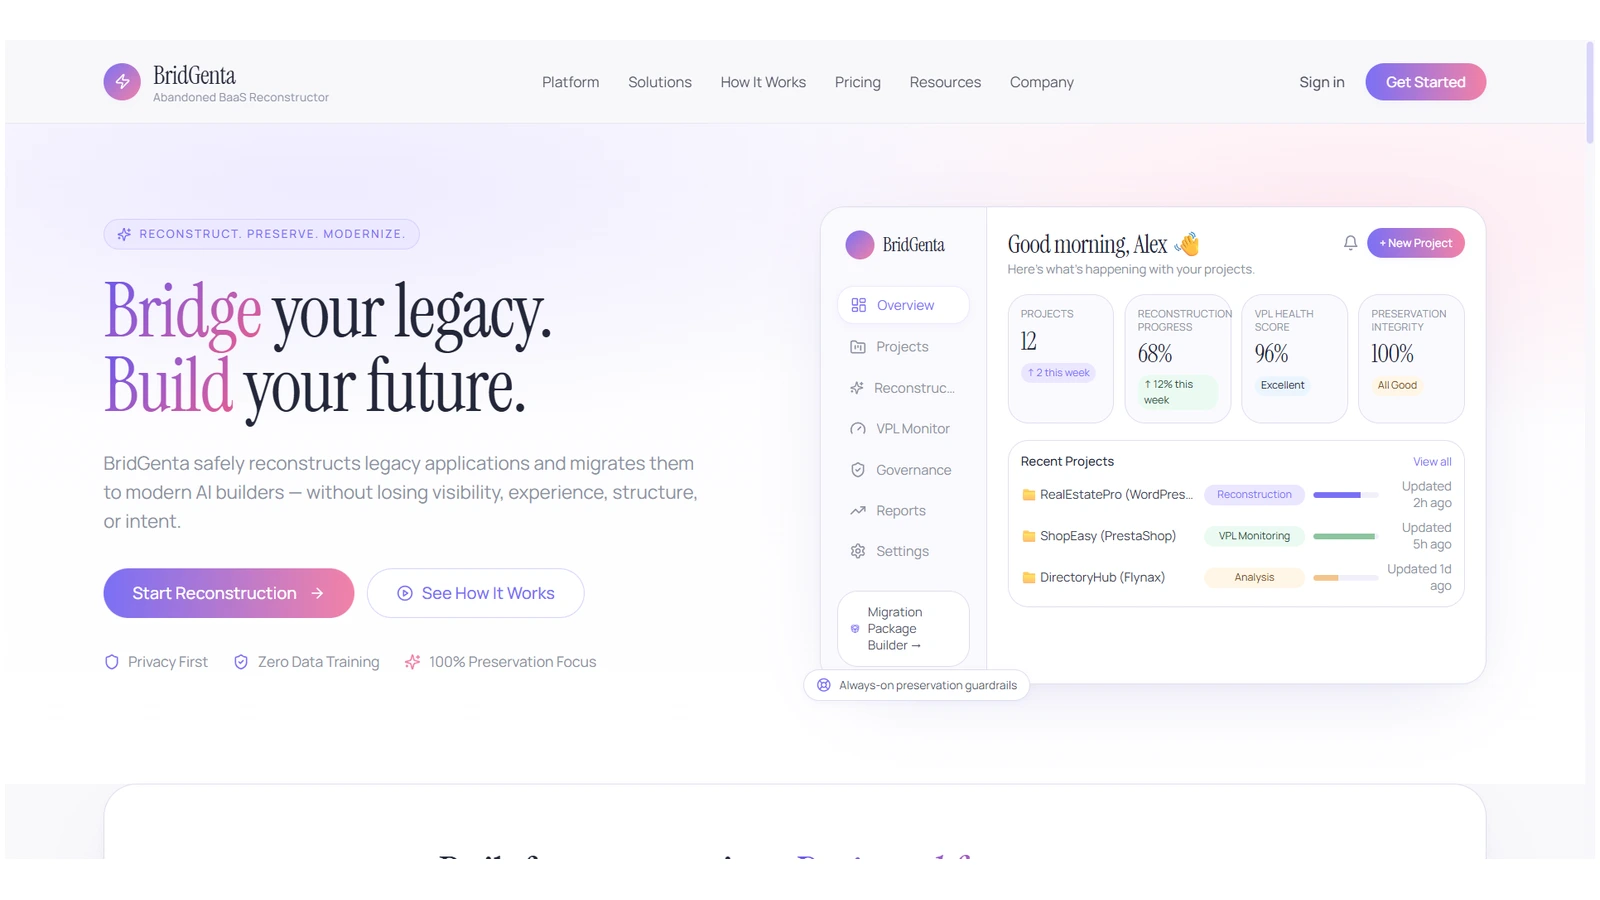
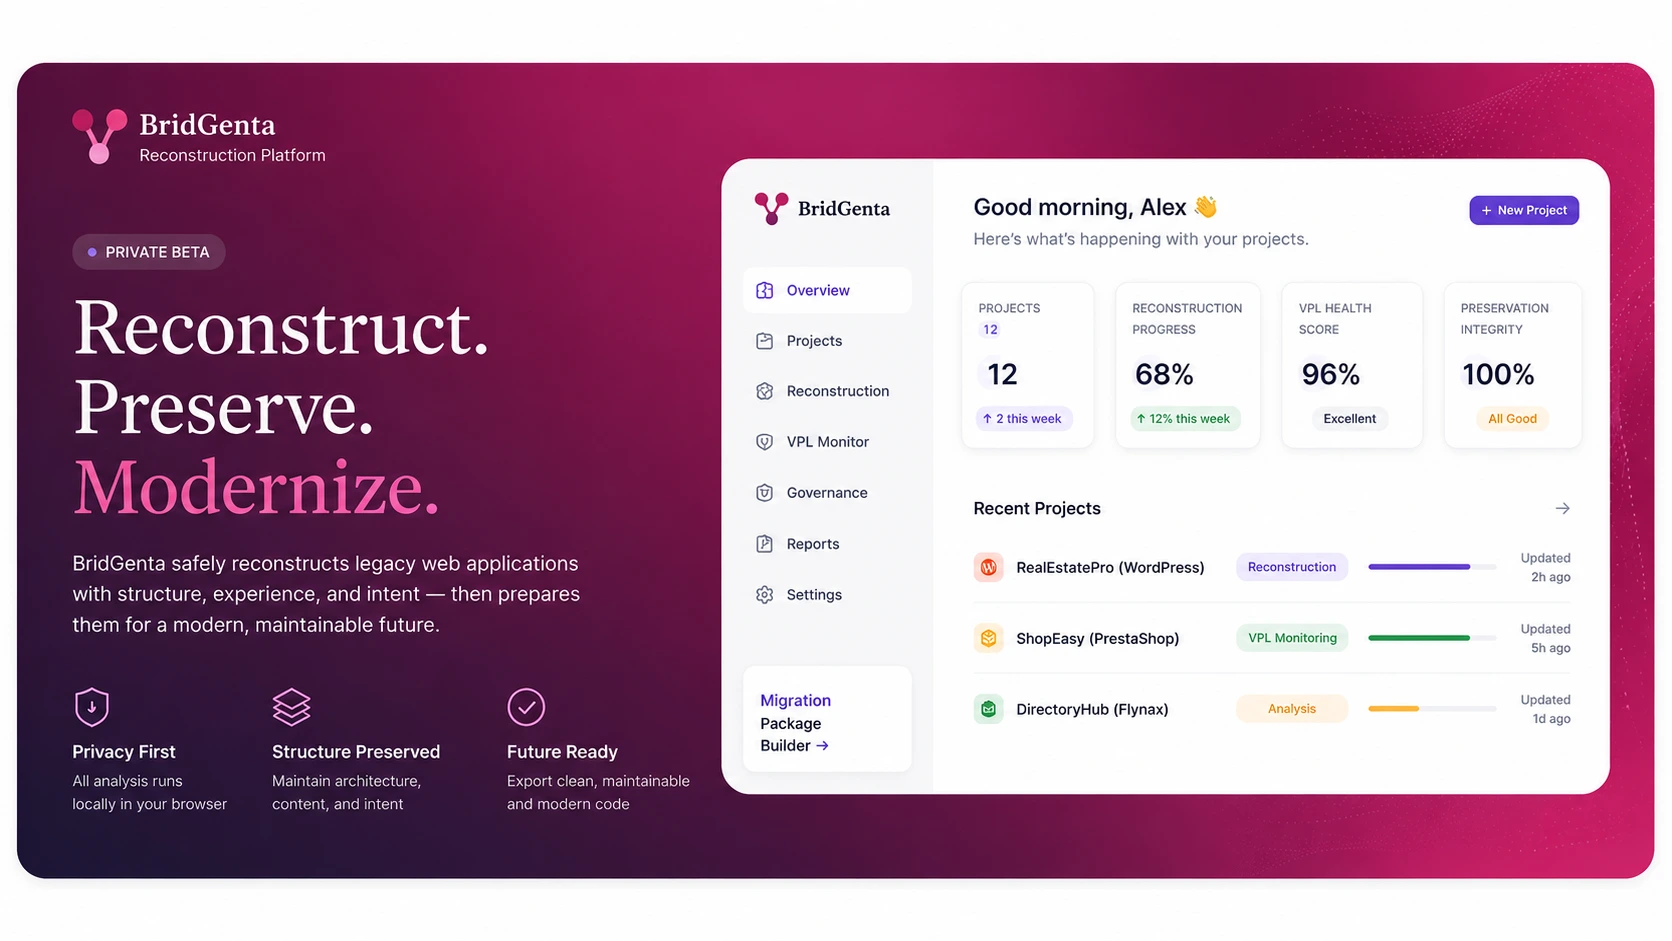
feat: integrate official WebP public artifacts for BridGenta case study

diff --git a/src/content/projects/bridgenta.md b/src/content/projects/bridgenta.md
@@ -24,20 +24,28 @@ In meiner Rolle als technischer Webmaster verantworte ich die Konzeption, das Wo
 
 ## 4. Public Artifacts
 
-### Artefakt 1: Projekt-Visualisierung (Hero)
-Das Einstiegsportal zur Visualisierung des rekonstruierten Systems:
+### Hero
+<figure>
+  <img src="/images/bga-portfolio/BG-PA01-Hero.webp" alt="BridGenta Reconstruction Platform illustrating structured modernization of legacy web applications while preserving architecture, experience, and business intent." width="1672" height="941" />
+</figure>
 
-![BridGenta Hero-Ansatz](/images/bga-portfolio/BG-PA01-Hero.webp)
+### Workspace
+<figure>
+  <img src="/images/bga-portfolio/BG-PA02-Workspace.webp" alt="BridGenta workspace interface used for structured reconstruction, project analysis, and privacy-first processing." loading="lazy" width="1600" height="900" />
+  <figcaption>Workspace for project reconstruction and structured analysis.</figcaption>
+</figure>
 
-### Artefakt 2: High-Level Ablaufdiagramm
-Das Ablaufdiagramm zur Entkopplung der Handoff-Pipeline und automatisierten CI-Prüfungen:
+### Workflow
+<figure>
+  <img src="/images/bga-portfolio/BG-PA03-Workflow.webp" alt="BridGenta reconstruction workflow illustrating analysis, preservation, validation, and modernization stages." loading="lazy" width="1600" height="900" />
+  <figcaption>Structured reconstruction workflow demonstrating project analysis and modernization.</figcaption>
+</figure>
 
-![BridGenta Handoff Workflow](/images/bga-portfolio/BG-PA02-Workflow.webp)
-
-### Artefakt 3: Ergebnis-Nachweis (Audit)
-Der nachweisbare Audit-Bericht der Plattform-Analytik und des Qualitätsprüfungs-Systems:
-
-![BridGenta Audit Ergebnis](/images/bga-portfolio/BG-PA03-Audit.webp)
+### Governance
+<figure>
+  <img src="/images/bga-portfolio/BG-PA04-Governance.webp" alt="BridGenta governance interface demonstrating audit, validation, and reconstruction quality controls." loading="lazy" width="1600" height="900" />
+  <figcaption>Governance and validation layer supporting transparent reconstruction decisions.</figcaption>
+</figure>
 
 ## 5. Results
 * **Handoff-Stabilität**: Erfolgreiche Vermeidung unkontrollierter Code-Überschreibungen durch klar definierte Git-Handoff-Zweige.